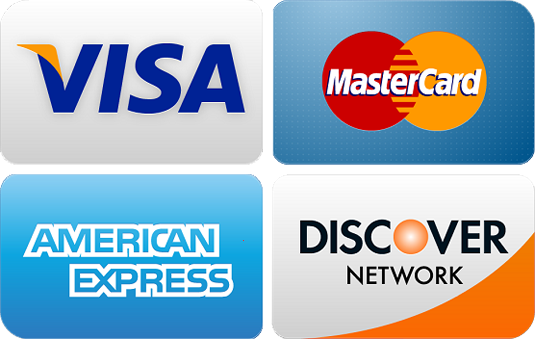
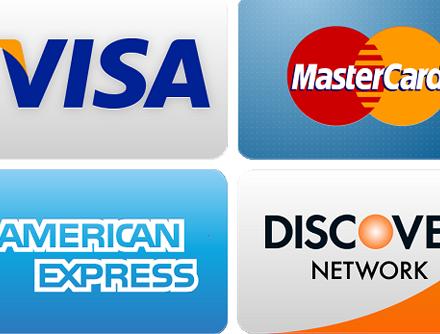
commit

diff --git a/index.html b/index.html
@@ -82,7 +82,7 @@
         <div class="mdl-layout__tab-panel is-active" id="home">
           <section class="section--center mdl-grid mdl-grid--no-spacing mdl-shadow--2dp">
             <header class="section__play-btn mdl-cell mdl-cell--3-col-desktop mdl-cell--2-col-tablet mdl-cell--4-col-phone mdl-color--teal-100 mdl-color-text--white">
-              <i class="material-icons">play_circle_filled</i>
+               <img src="images/WinImage.jpg" style="width:100%" alt="">
             </header>
             <div class="mdl-card mdl-cell mdl-cell--9-col-desktop mdl-cell--6-col-tablet mdl-cell--4-col-phone">
               <div class="mdl-card__supporting-text">
@@ -108,7 +108,7 @@
                 <h4 class="mdl-cell mdl-cell--12-col">Details</h4>
                 <div class="section__circle-container mdl-cell mdl-cell--2-col mdl-cell--1-col-phone">
                   <!--<div class="section__circle-container__circle">-->
-                      <img src="images/KidInNeed.jpg" style="width:100%;border-radius:70%" alt="">
+                      <img src="images/KidInNeed.jpg" style="width:70%;border-radius:50%" alt="">
                   <!--</div>-->
                 </div>
                 <div class="section__text mdl-cell mdl-cell--10-col-desktop mdl-cell--6-col-tablet mdl-cell--3-col-phone">
@@ -116,14 +116,14 @@
                   15% of the money from the lottery profits will be donated to a thirsty family in Africa. Your money can save them.
                 </div>
                 <div class="section__circle-container mdl-cell mdl-cell--2-col mdl-cell--1-col-phone">
-                  <div class="section__circle-container__circle mdl-color--primary"></div>
+                 <img src="images/Accepted-Credit-Cards.png" style="width:70%;border-radius:50%" alt="">
                 </div>
                 <div class="section__text mdl-cell mdl-cell--10-col-desktop mdl-cell--6-col-tablet mdl-cell--3-col-phone">
                   <h5>No need for authentication</h5>
                   You can use any credit card!
                 </div>
                 <div class="section__circle-container mdl-cell mdl-cell--2-col mdl-cell--1-col-phone">
-                  <div class="section__circle-container__circle mdl-color--primary"></div>
+                  <img src="images/WinTheLotteryPic4Smaller.jpg" style="width:70%;border-radius:50%" alt="">
                 </div>
                 <div class="section__text mdl-cell mdl-cell--10-col-desktop mdl-cell--6-col-tablet mdl-cell--3-col-phone">
                   <h5>Guarantee for a happy winners</h5>
